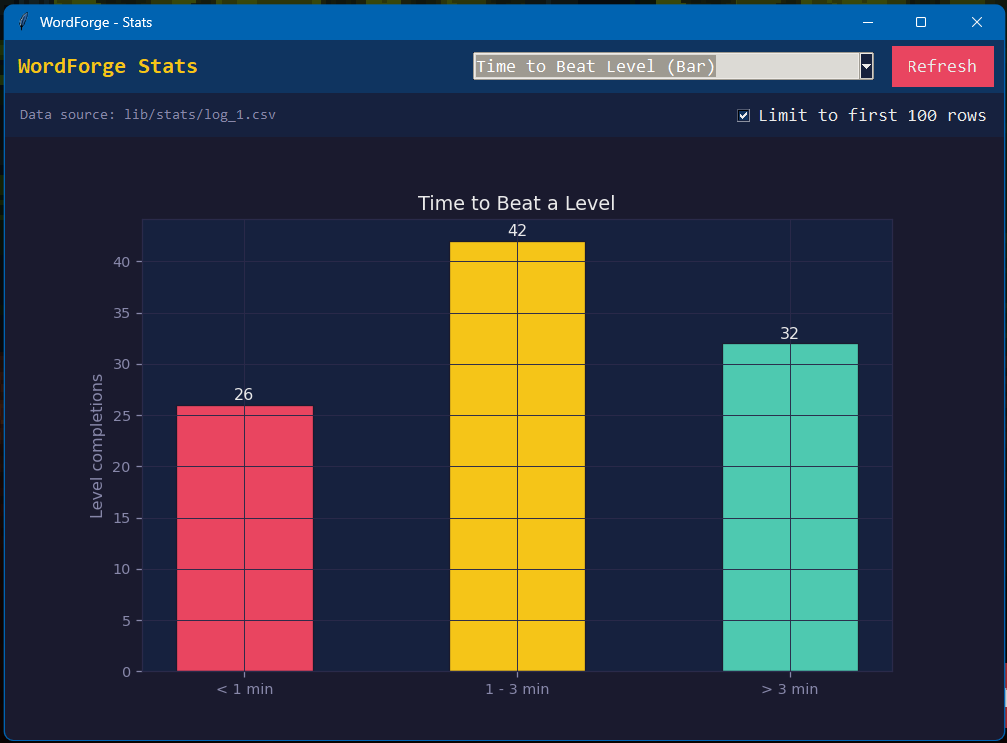
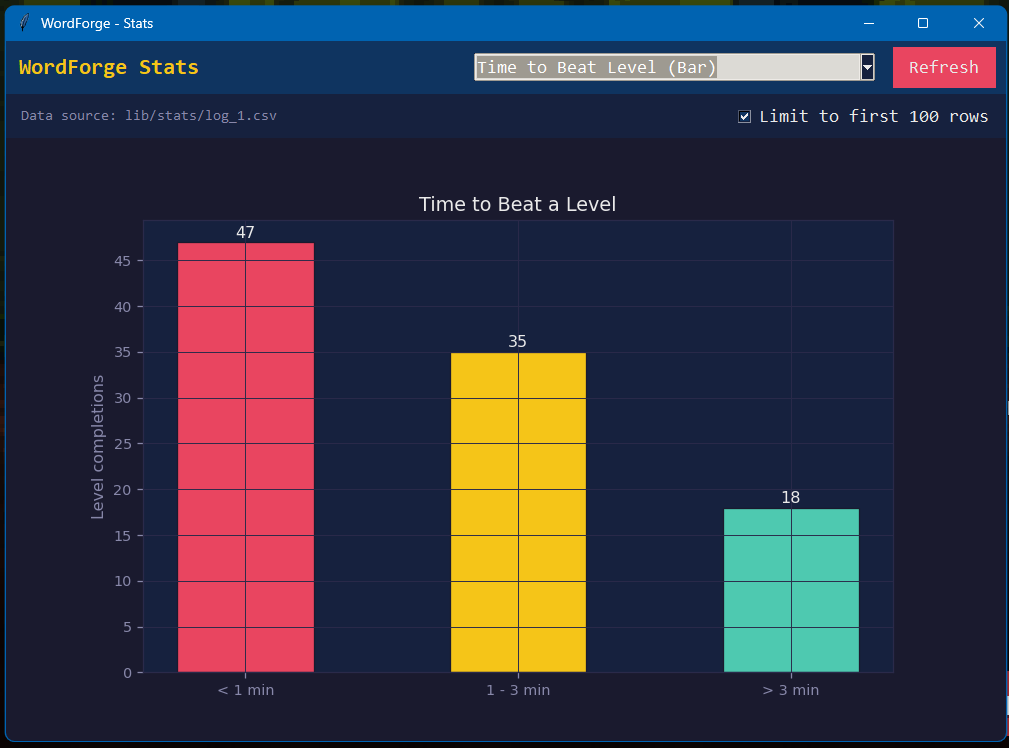
Fix visualization md to match a data

diff --git a/screenshots/visualization/VISUALIZATION.md b/screenshots/visualization/VISUALIZATION.md
@@ -40,4 +40,4 @@ The checkbox "Limit to first 100 rows" means the data will display only the firs
 
 ![5. Time to Beat Level (Bar Graph)](data_005.png)
 
-**Explanation:** The bar graph shows that, out of 100 recorded level completions, 42 levels were beaten in 1-3 minutes, 32 levels took over 3 minutes, and 26 levels were cleared in under 1 minute. The dominance of the 1-3 minute range suggests that the player typically spent a moderate amount of time per level - long enough to consider word options, but not so long as to appear rushed. The relatively high number of levels taking over 3 minutes indicates that higher-level enemies with larger HP pools frequently extended combat, requiring more attack turns to defeat.
+**Explanation:** The bar graph shows that, out of 100 recorded level completions, 47 levels were beaten in under 1 minute, 35 levels were completed in 1–3 minutes, and 18 levels took over 3 minutes. The dominance of the under 1 minute range suggests that the player typically spent a short amount of time per level, indicating quick decision-making and efficient gameplay. Meanwhile, the smaller number of levels taking over 3 minutes suggests that only certain difficult encounters, such as higher-level enemies with larger HP pools, required extended combat and more attack turns to defeat.